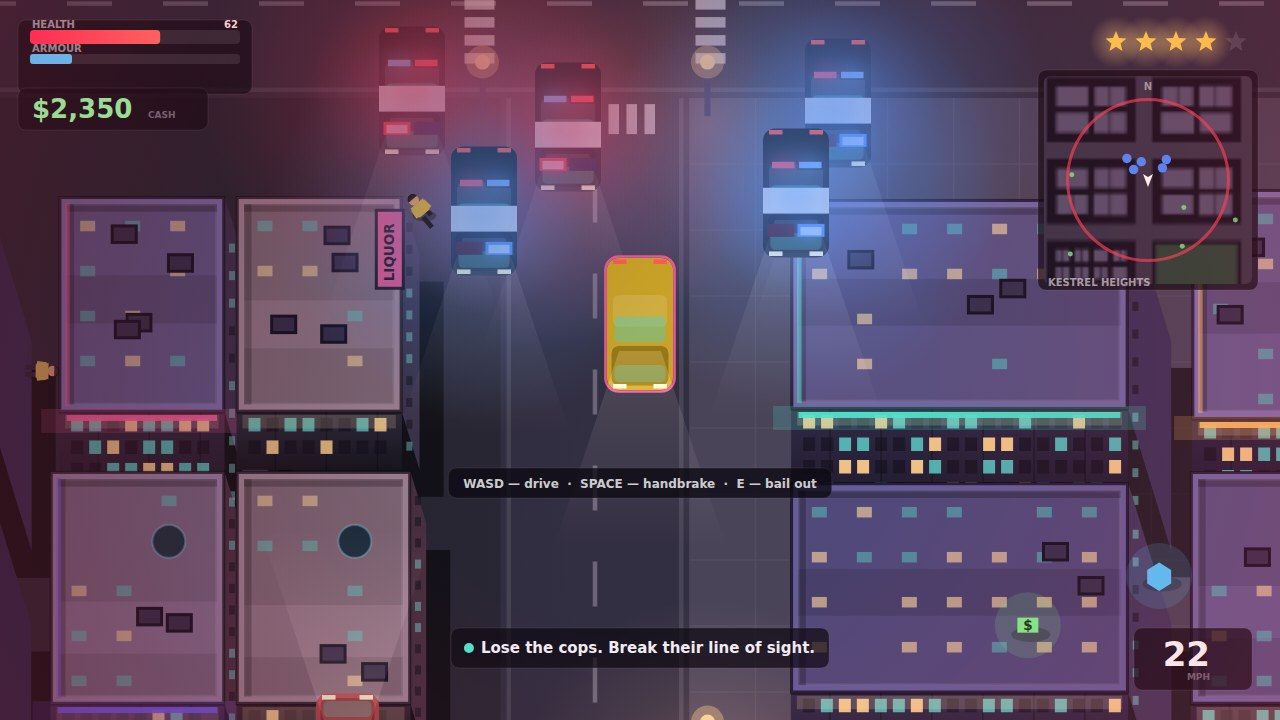
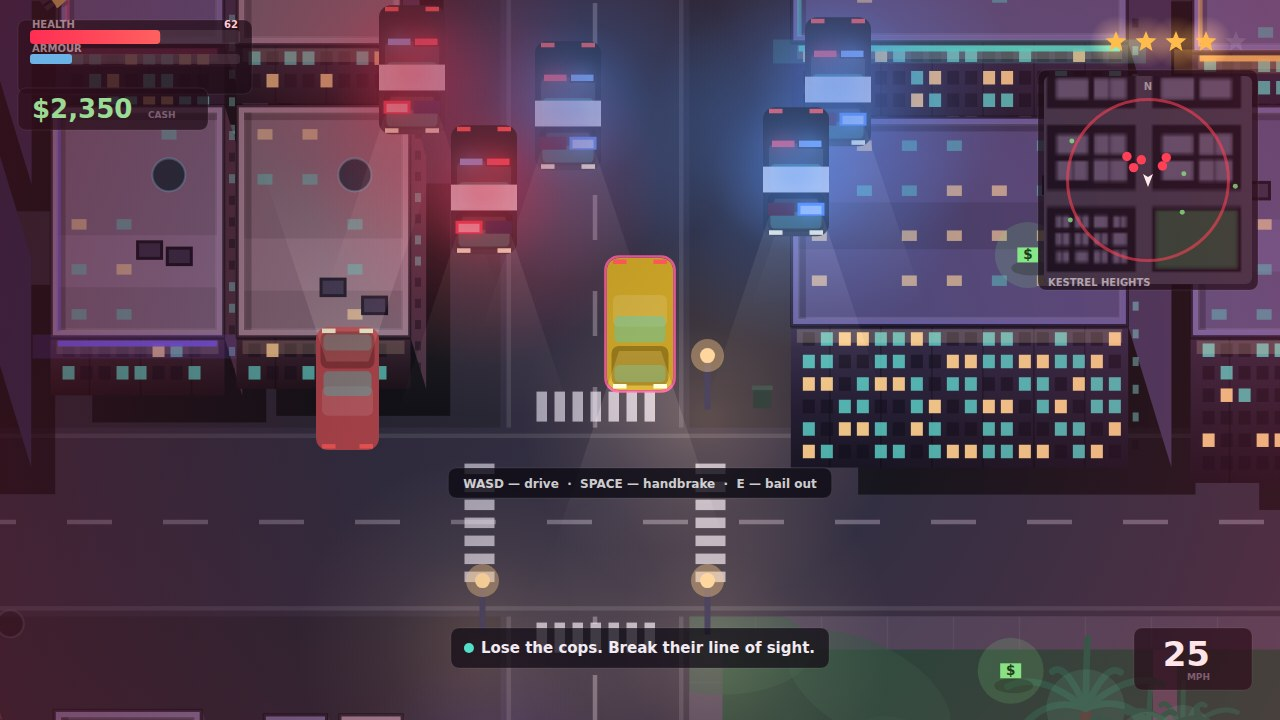
README: badge block, Palm City premise, features, controls table and run notes
Screenshots swapped for the final 1280x720 renders and embedded inline
(cover, on-foot, four-star chase, briefing).

diff --git a/game/src/shots.js b/game/src/shots.js
@@ -72,7 +72,7 @@ export function applyShot(world, index) {
     world.traffic.target = 0;
     // No tutorial hint on the cover: it lands dead centre and cuts the hero car in half.
     world.hint = '';
-    return { offset: { x: -10, y: 6 }, zoom: 1.2, stageSpeed: 330, lockCamera: true };
+    return { offset: { x: 0, y: -124 }, zoom: 1.26, stageSpeed: 330, lockCamera: true };
   }
 
   if (n === 2) {

diff --git a/README.md b/README.md
@@ -4,20 +4,26 @@
 
 # Palm City
 
-An original open-world crime game for the desktop browser — a [make.fun](https://make.fun) bounty entry. Top-down 2D canvas, static files, no network, no build step. Everything is our own: city, characters, names, story, art direction and the WebAudio synth soundtrack. Nothing is taken from any commercial game.
+An original open-world crime game that runs in the browser — a [make.fun](https://make.fun) bounty entry. Top-down 2D canvas, static files, no network calls, no build step. City, characters, script, art direction and the WebAudio soundtrack are all ours; nothing is lifted from a commercial game.
 
-You arrive in Palm City with a borrowed jacket and a beater car. A fixer named Marisol has seven jobs for you — courier runs, collections, a chase, a heist — and the city's wanted system remembers everything you do.
+You roll into Palm City with a borrowed jacket and a beater car. A fixer named Marisol has seven jobs for you — courier runs, a collection, a chase, a marina heist — and the whole time the city is clocking your face. Every cruiser you dust off remembers you, and the wanted stars only cool if you actually get out of sight.
+
+![Cover: on the coastal avenue, courier ahead](screenshots/1-cover.jpg)
 
 ## Features
 
-- A procedural neon-dusk city: road grid, beach avenue, rooftop blocks, palms, lit windows, parking lots.
-- On foot and behind the wheel: arcade driving with handbrake, horn and engine pitch, parked and traffic cars you can hot-wire (walk up, press E).
-- Living streets: pedestrians on the sidewalks, ambient traffic with lane logic.
-- A wanted level with real consequences: patrol cruisers respond, chase, and try to box you in; lie low and the heat cools.
-- Combat: hitscan shooting with tracers, muzzle flash, health/armor/pickups.
-- A story chain of seven missions with briefings, markers and paydays, plus a platinum-style completion screen.
-- HUD with a live minimap, money, health, armor and wanted stars; title, pause, save/load (localStorage), busted and mission screens.
-- Synthesized audio: engine hum, gunshots, sirens, pickups and a synthwave loop — all generated in WebAudio, zero audio files.
+- A hand-built neon-dusk city: road grid, beachfront avenue, rooftop blocks, palms, lit windows, parking lots, a marina.
+- On foot and behind the wheel: arcade handling with handbrake, engine pitch and horn; parked and traffic cars are hot-wirable — walk up, press E.
+- Living streets: pedestrians on the sidewalks, ambient traffic that keeps lanes and stops spawning on your bumper.
+- A wanted system with teeth: patrol cruisers respond to heat, chase, pit and box you in; break line of sight and it decays.
+- Combat: hitscan shooting with tracers and muzzle flash, health / armour / cash pickups.
+- Seven missions with briefings, objective markers and paydays, plus a completion screen.
+- HUD with live minimap, money, health, armour, wanted stars; title, pause, busted, mission and save/load screens (localStorage).
+- Fully synthesized audio — engine, gunshots, sirens, pickups, a synthwave loop — generated in WebAudio, zero audio assets.
+
+![On foot outside the Coral Room](screenshots/2-onfoot.jpg)
+![Four stars and a wall of cruisers](screenshots/3-police.jpg)
+![The Pay-In briefing](screenshots/4-mission.jpg)
 
 ## Run
 
@@ -25,7 +31,23 @@ You arrive in Palm City with a borrowed jacket and a beater car. A fixer named M
 node serve.ts        # then open http://localhost:8080
 ```
 
-Controls: WASD move, mouse aim, click shoot, E enter/exit car, Shift sprint, Space handbrake (in car), Esc pause, M mute.
+Any static file server works; the game is just `game/index.html` plus `game/src/*.js`.
+
+## Controls
+
+| Key | Action |
+| --- | --- |
+| WASD / arrows | Move (walk, or drive) |
+| Mouse | Aim |
+| Left click | Shoot |
+| Shift | Sprint (on foot) |
+| E | Enter / exit vehicle, interact |
+| Space | Handbrake (in car) |
+| H | Horn |
+| M | Mute audio |
+| Esc | Pause |
+| Enter | Confirm |
+| R | Restart after a bust |
 
 ## License
 
